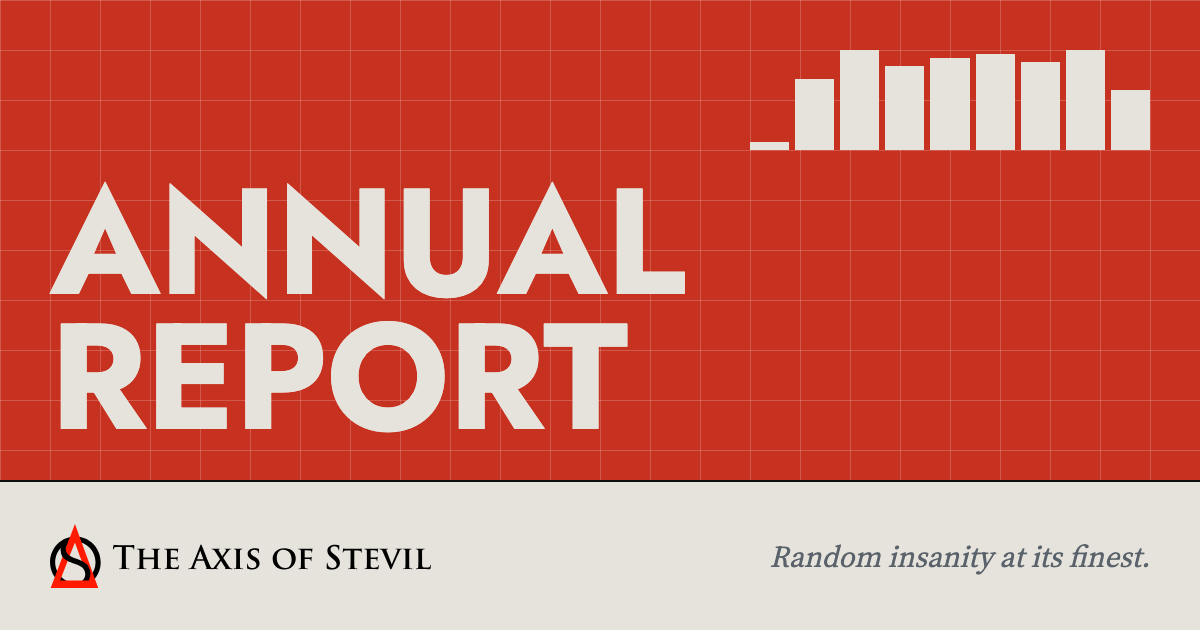
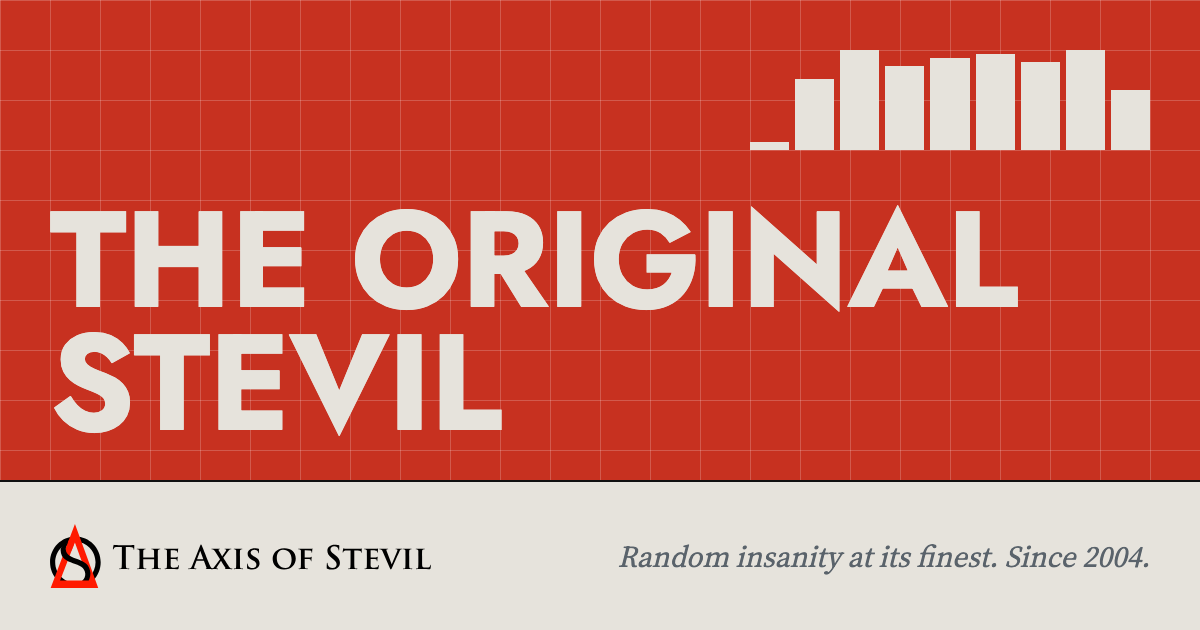
SEO: the home page's own title and description, a division described in its own words, the founders and the site's accounts on record, the sections in every footer

Changed region(s): [[0.0308, 0.3016, 0.8633, 0.6937], [0.4933, 0.8444, 0.9558, 0.9048]]

diff --git a/source/assets/site.css b/source/assets/site.css
@@ -2291,10 +2291,11 @@ figure.flash ruffle-player {
     min-height: var(--half);
     margin-top: var(--half);
     margin-bottom: var(--half);
-    padding: 0 var(--pad);
+    padding: calc(var(--pad) / 2) var(--pad);
     display: flex;
+    flex-wrap: wrap;
     align-items: center;
-    gap: var(--pad);
+    gap: calc(var(--pad) / 2) var(--pad);
     background: var(--stock-light);
 }
 
@@ -2346,6 +2347,19 @@ figure.flash ruffle-player {
 .colophon nav a:hover {
     color: var(--red-ink);
     text-decoration: underline;
+}
+
+/* The sections, a second line of the colophon across its width, in the running head's smaller type. */
+.colophon nav.colophon-sections {
+    flex-basis: 100%;
+    order: 5;
+    justify-content: flex-start;
+    gap: 4px 20px;
+    padding-top: calc(var(--pad) / 4);
+    border-top: 1px solid var(--major);
+    font-size: 0.75rem;
+    font-weight: 500;
+    letter-spacing: 0.12em;
 }
 
 /* No entrance motion for the plates: they are in place from the first paint. And the browser's scroll anchoring

diff --git a/app/Services/LlmsFile.php b/app/Services/LlmsFile.php
@@ -37,7 +37,7 @@ class LlmsFile
         $lines = $own !== '' ? [$own, ''] : [
             '# '.$jigsaw->getConfig('title'),
             '',
-            '> '.$jigsaw->getConfig('tagline').' The complete works of the Axis of Stevil, a humour website founded in '.$jigsaw->getConfig('founded').', presented as an annual report to its shareholders.',
+            '> '.$jigsaw->getConfig('tagline').' The complete works of the Axis of Stevil, an alternative art, humour and multimedia project founded in January 2005 by Steven Maguire and Graham Hensley.',
             '',
         ];
 
@@ -52,7 +52,9 @@ class LlmsFile
             }
 
             $series = array_values(array_filter($divisionPages, fn ($s) => $s->parent === $page->slug));
-            $note = $page->count.' '.$plural((int) $page->count, 'work', 'works');
+            $own = $divisions[array_search($page->slug, array_column($divisions, 'slug'), true)]['description'] ?? null;
+            $count = $page->count.' '.$plural((int) $page->count, 'work', 'works');
+            $note = $own === null ? $count : rtrim((string) $own, '.')." ({$count})";
 
             if ($series !== []) {
                 $note .= '. Series: '.implode(', ', array_map(fn ($s) => "[{$s->name}]({$base}{$s->address}) ({$s->count})", $series));

diff --git a/app/Services/RemoteData.php b/app/Services/RemoteData.php
@@ -96,6 +96,8 @@ class RemoteData
         $divisions = array_map(fn (array $c) => [
             'slug' => $c['slug'],
             'name' => $c['name'],
+            // How its page describes itself, as written for it (search listings, link previews); none: a generated line.
+            'description' => $this->plain((string) ($c['description'] ?? '')) ?: null,
             'count' => $c['entries'],
         ], $this->json($channelUrl.'/categories')['data'] ?? []);
 
@@ -697,7 +699,7 @@ class RemoteData
                 'title' => $division['name'].' — The Axis of Stevil',
                 'name' => $division['name'],
                 'slug' => $division['slug'],
-                'description' => "Every work filed in {$division['name']}, the Axis of Stevil's division of ".count($works).' works.',
+                'description' => $division['description'] ?? "Every work filed in {$division['name']}, the Axis of Stevil's division of ".count($works).' works.',
                 'count' => count($works),
                 'figure' => (count($works) === 1 ? 'work' : 'works').' · '.($total > 0 ? (int) round(count($works) / $total * 100) : 0).'% of output',
                 'note_label' => 'Series',

diff --git a/app/StructuredData.php b/app/StructuredData.php
@@ -48,8 +48,12 @@ class StructuredData
             'url' => $base.'/',
             'logo' => ['@type' => 'ImageObject', 'url' => $base.'/assets/logo/axis-symbol.png'],
             'image' => $home ? $base.'/assets/social/card.png' : null,
-            'foundingDate' => $home ? (string) $page->founded : null,
             'slogan' => $home ? $page->tagline : null,
+            'founder' => $home ? [
+                ['@type' => 'Person', 'name' => 'Steven Maguire', 'url' => 'https://stevenmaguire.com'],
+                ['@type' => 'Person', 'name' => 'Graham Hensley'],
+            ] : null,
+            'sameAs' => $home ? ['https://www.facebook.com/groups/axisofstevil', 'https://twitter.com/AxisofStevil'] : null,
         ];
 
         if ($home) {

diff --git a/source/_partials/footer.blade.php b/source/_partials/footer.blade.php
@@ -7,4 +7,18 @@
         <a href="/shirts/">Shirts</a>
         <a href="/contact/">Contact</a>
     </nav>
+    {{-- Every division by name, and the other sections: the site's map in one line, on every page. --}}
+    <nav class="colophon-sections" aria-label="Sections">
+        @foreach ($page->divisions as $division)
+        <a href="/{{ $division->slug }}/">{{ $division->name }}</a>
+        @endforeach
+        <a href="/works/">All Works</a>
+        <a href="/issues/">Issues</a>
+        @if ($page->gallery)
+        <a href="/gallery/">Gallery</a>
+        @endif
+        @if ($page->tunes_section)
+        <a href="/tunes/">Tunes</a>
+        @endif
+    </nav>
 </footer>

diff --git a/source/_layouts/master.blade.php b/source/_layouts/master.blade.php
@@ -30,7 +30,7 @@
         <meta property="og:description" content="{{ $page->description }}">
         @endif
         <meta property="og:image" content="{{ $card }}">
-        <meta property="og:image:alt" content="{{ $page->image || $page->social_image ? $page->title : 'The Axis of Stevil: Annual Report' }}">
+        <meta property="og:image:alt" content="{{ $page->image || $page->social_image ? $page->title : 'The Axis of Stevil' }}">
         @if ($collection === 'works')
         <meta property="article:published_time" content="{{ $page->date }}">
         @if ($page->updated)

diff --git a/source/index.blade.php b/source/index.blade.php
@@ -1,6 +1,6 @@
 ---
-title: The Axis of Stevil — Annual Report
-description: Random insanity at its finest. The complete works of the Axis of Stevil since 2005, reported in full to its shareholders.
+title: Axis of Stevil - The Original Stevil, Since 2004
+description: Delivering the best content from around the universe to your browser and email inbox every Monday, Wednesday, and Friday.
 ---
 @extends('_layouts.master')
 
